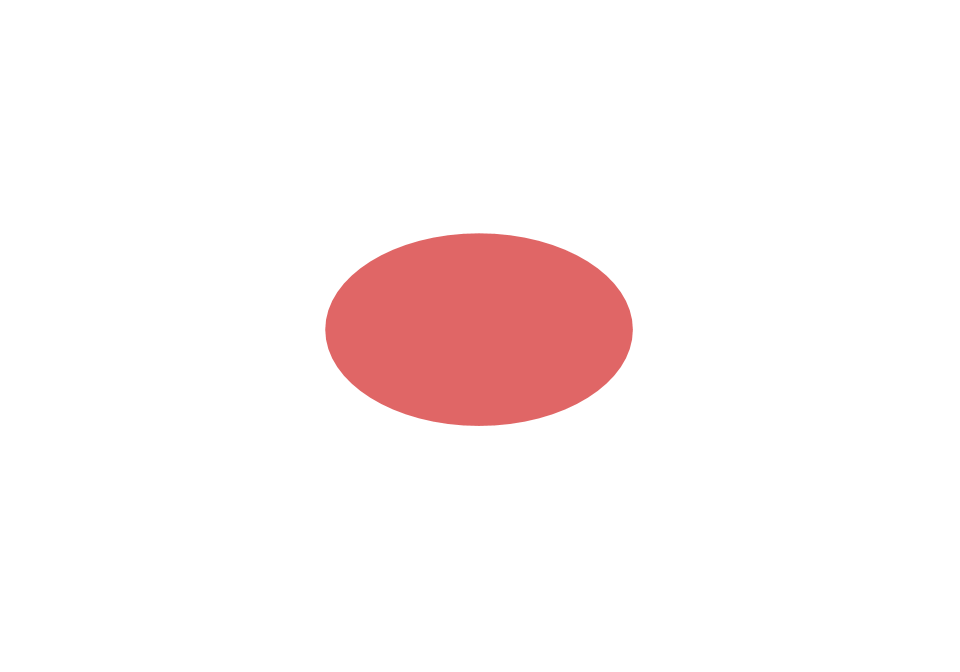
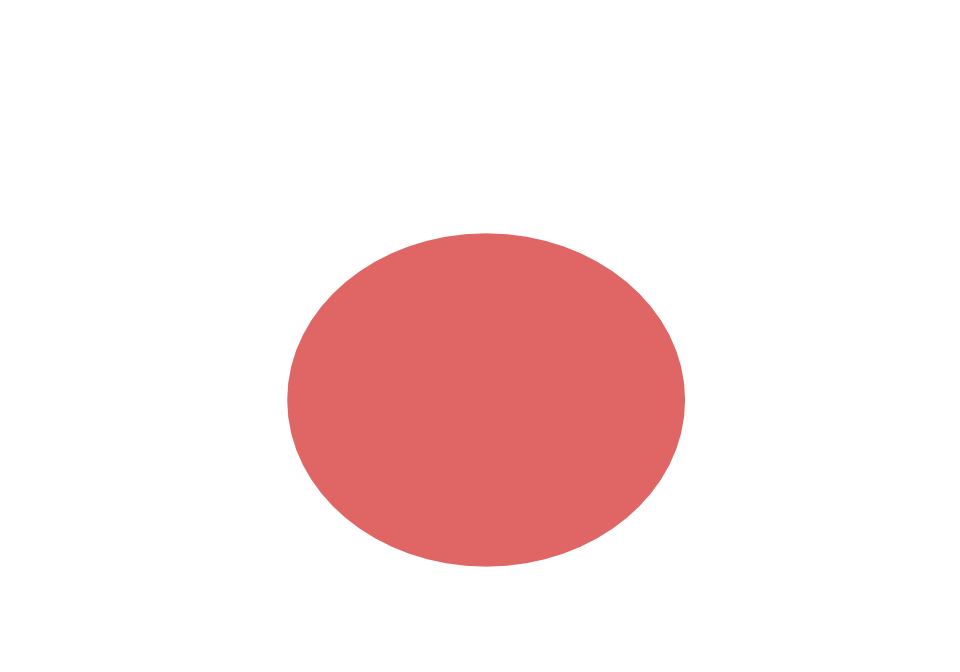
Refine coin animation

diff --git a/src/components/CoinList.jsx b/src/components/CoinList.jsx
@@ -8,12 +8,15 @@ function CoinList() {
   }
 
   function generateCoinList(){
+    console.log(window.innerWidth);
     let coinList = [];
+    let newDelay = 0
     const center = window.innerWidth/2;
-    for (let i=0; i < 10; i++) {
-      let newLeft = center;
-      let newDelay = i;
+    const fivePercent = window.innerWidth/20;
+    for (let i=0; i < 5; i++) {
+      let newLeft = center-30;
       coinList.push({left: newLeft, delay: newDelay});
+      newDelay += 1;
     }
     return coinList;
   }

diff --git a/src/components/assets/styles/Coin.css b/src/components/assets/styles/Coin.css
@@ -1,6 +1,7 @@
 @keyframes coinFall {
-  from {top: 0;}
-  to {top: 50%;}
+  100% {
+    top: 70%;
+  }
 }
 
 .coin {
@@ -17,5 +18,13 @@
   z-index: 10;
   border-radius: 50%;
   animation-name: coinFall;
-  animation-duration: 1s;
+  animation-duration: 2s;
+}
+
+@media screen and (max-width: 960px) {
+  @keyframes coinFall {
+    100% {
+      top: 70%;
+    }
+  }
 }

diff --git a/src/components/assets/styles/Homepage.css b/src/components/assets/styles/Homepage.css
@@ -1,9 +1,18 @@
+@keyframes movePiggy {
+  100% {
+    bottom: 100%;
+  }
+}
+
 .piggy {
   width: 70%;
   position: fixed;
   right: 15%;
   left: 15%;
   bottom: 0;
+  animation-name: movePiggy;
+  animation-delay: 6s;
+  animation-duration: 2s;
 }
 
 .belly {

diff --git a/src/components/Homepage.jsx b/src/components/Homepage.jsx
@@ -4,7 +4,8 @@ import Pig from './assets/images/pig.png';
 import PigBelly from './assets/images/pig-belly.png';
 import './assets/styles/Homepage.css';
 
-function Homepage(){
+function Homepage(){ 
+  
   return (
     <div>
       <CoinList/>
